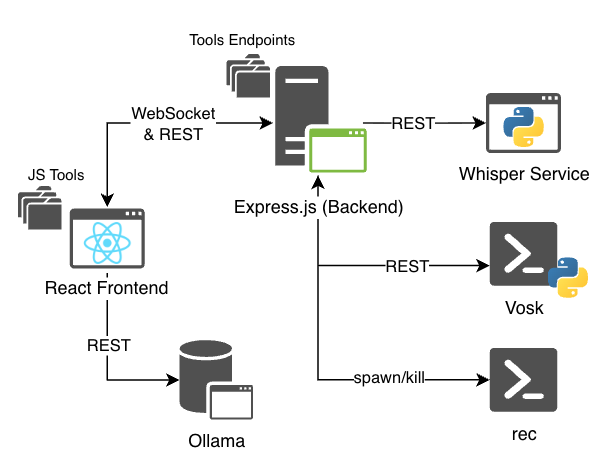
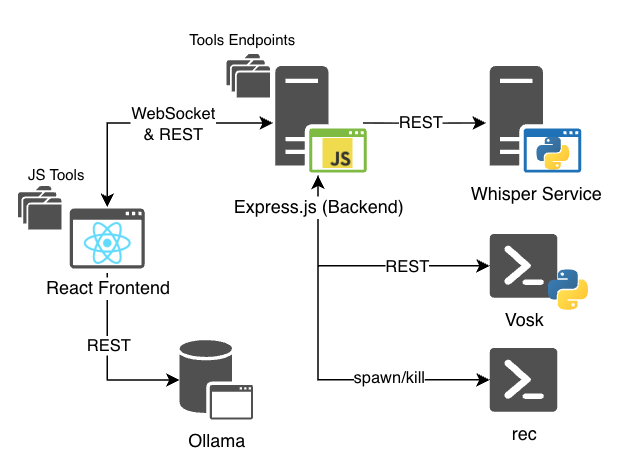
modified diagram

diff --git a/README.md b/README.md
@@ -9,7 +9,7 @@
   <img src="readme_assets/sleeping.png" alt="max sleeping" height="180"/>
 </p>
 
-Max Headbox is an open-source voice-activated LLM Agent designed to run on a Raspberry Pi. It can be configured to execute a variety of tools and perform actions.
+Max Headbox is an open-source voice-activated LLM agent built for Raspberry Pi. It operates 100% locally on-device, which eliminates reliance on cloud-based AI providers. It can be configured to execute custom tools and automate actions on your Pi.
 
 ![blog](https://raw.githubusercontent.com/syxanash/awesome-web-desktops/refs/heads/main/assets/notebook.png) Read my [blog post](https://blog.simone.computer/an-agent-desktoy) about this project!
 
